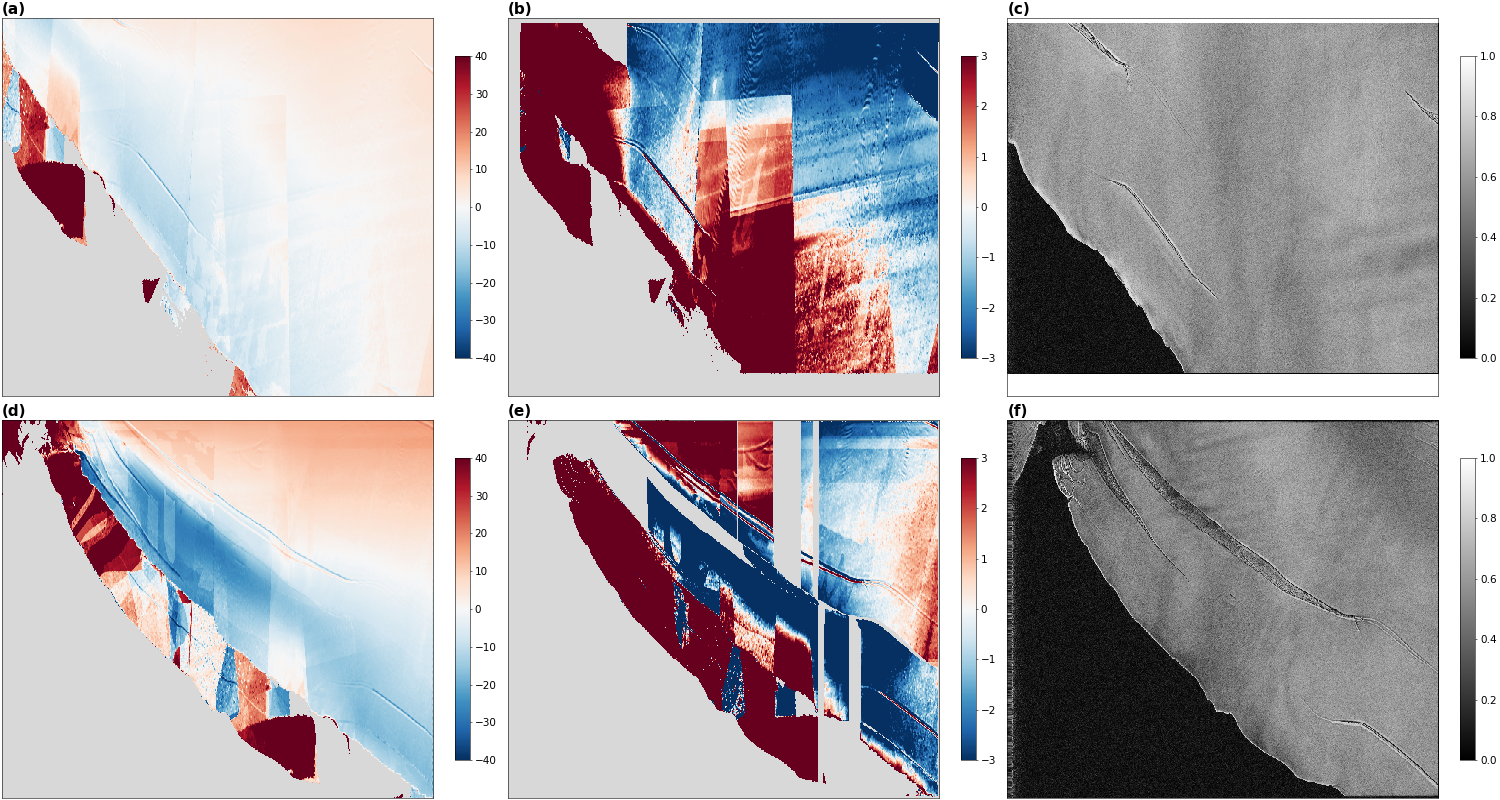
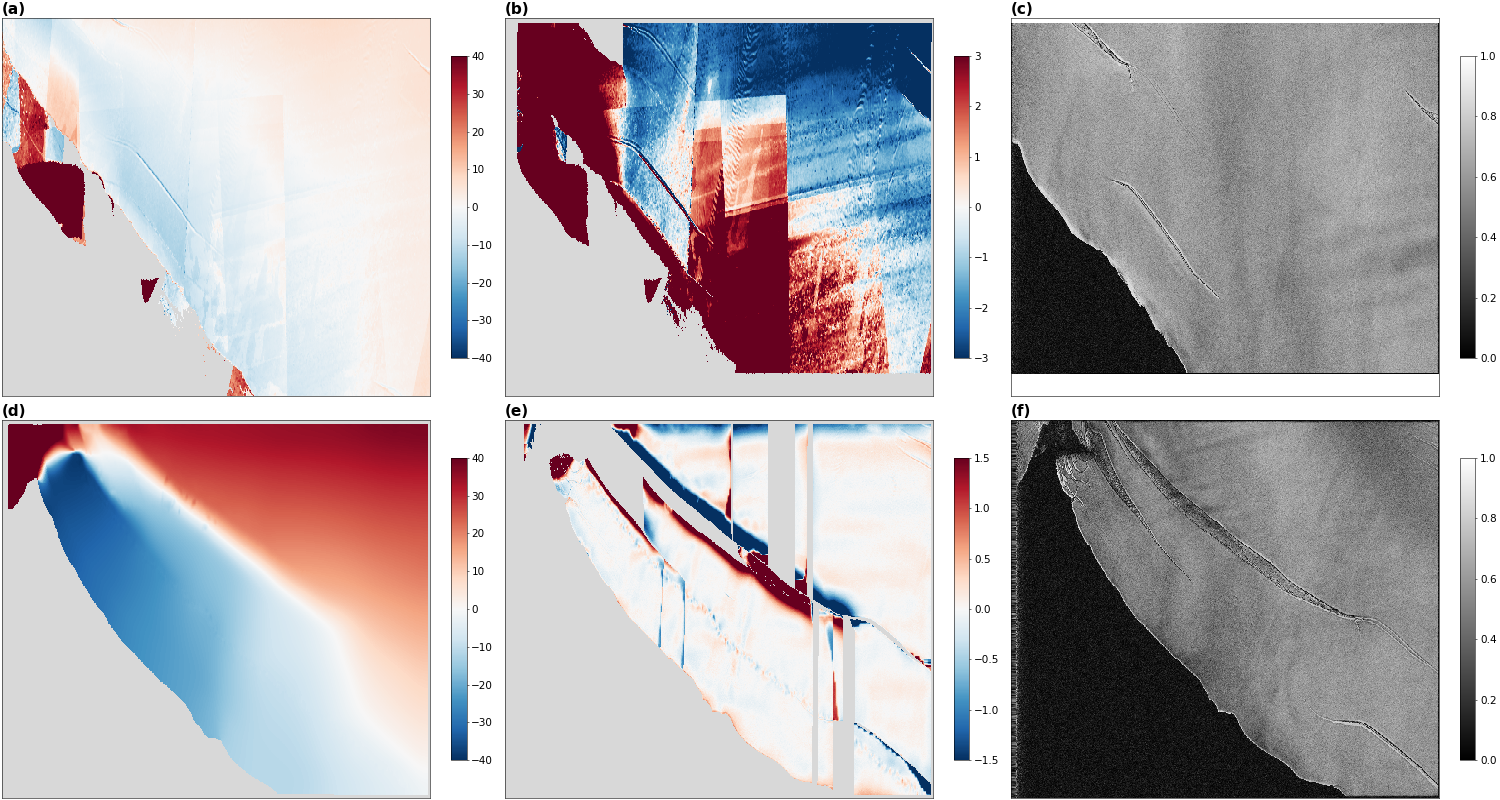
unwrappingReference: Figure 3 bottom row shows the range offsets on t022A_f139 (offsets minus RUNW, 10 km surface removed) in place of a second map example
Claude-Session: https://claude.ai/code/session_01UG6jZhctxPfaFKqE7cozuF

diff --git a/Documents/unwrappingReference.md b/Documents/unwrappingReference.md
@@ -166,18 +166,21 @@ The worst cases are seams in the mosaic. On `t152A` (Figure 3a), the simulation 
 40 cycles off; the coherence is high throughout (Figure 3c), so the data are good and the steps are in the map. Smoothing softens
 the seams but a step of whole cycles remains a step.
 
-`t022A_f139`, an ice-shelf front cut by rifts (Figure 3d-f), is the worst case, and the one where the offsets add
-residues too (1.33 times; Table 1). The map simulation has the same kind of seams and steps (Figure 3d, e). The
-offsets add their residues along the rifts parallel to the front, where the motion changes sharply across a
-narrow rift and the 1 km offsets cannot follow it. The frame starts with few residues (13,990), so the added ones
-matter.
+The range offsets can add error too. `t022A_f139`, an ice-shelf front cut by rifts, is the frame where they do
+most (1.33 times the residues; Table 1). The offsets themselves are smooth (Figure 3d), but against the standard
+RUNW, once the ionosphere and other variations over more than 10 km are removed, they are off by up to 1-1.5 cycles
+in bands along the rifts parallel to the front (Figure 3e), where the motion changes sharply across a narrow rift
+and the 1 km offsets cannot follow it. The coherence is high on both sides of the rifts (Figure 3f). The frame starts
+with few residues (13,990), so the added ones matter.
 
 ![Figure 3](images/unwrapRef_mapSeams.png)
-*Figure 3. Two frames where the map simulation is a poor reference. Top row, `t152A_f139`: (a) the unsmoothed map
-simulation, cycles; (b) the simulation minus the standard RUNW's unwrapped phase, cycles, where the rectangles are
-seams between scenes in the velocity mosaic and the block at lower left is about 40 cycles off; (c) coherence, high
-throughout. Bottom row, `t022A_f139`, an ice-shelf front with rifts, where the range offsets also add residues:
-(d)-(f) the same.*
+*Figure 3. Where each reference adds error. Top row, the unsmoothed map simulation on `t152A_f139`: (a) the
+simulation, cycles; (b) the simulation minus the standard RUNW's unwrapped phase, cycles, where the rectangles are seams
+between scenes in the velocity mosaic and the block at lower left is about 40 cycles off; (c) coherence, high
+throughout. Bottom row, the range offsets on `t022A_f139`, an ice-shelf front with rifts: (d) the offsets in phase
+units as removed before unwrapping, cycles; (e) the offsets minus the standard RUNW's unwrapped phase, cycles, with
+its 10 km robust local surface removed (that surface holds about twice the ionosphere and the RUNW's component
+levels), so that the offsets' short-scale error shows, here in bands along the rifts; (f) coherence.*
 
 ### 2.3 All real frames
 
